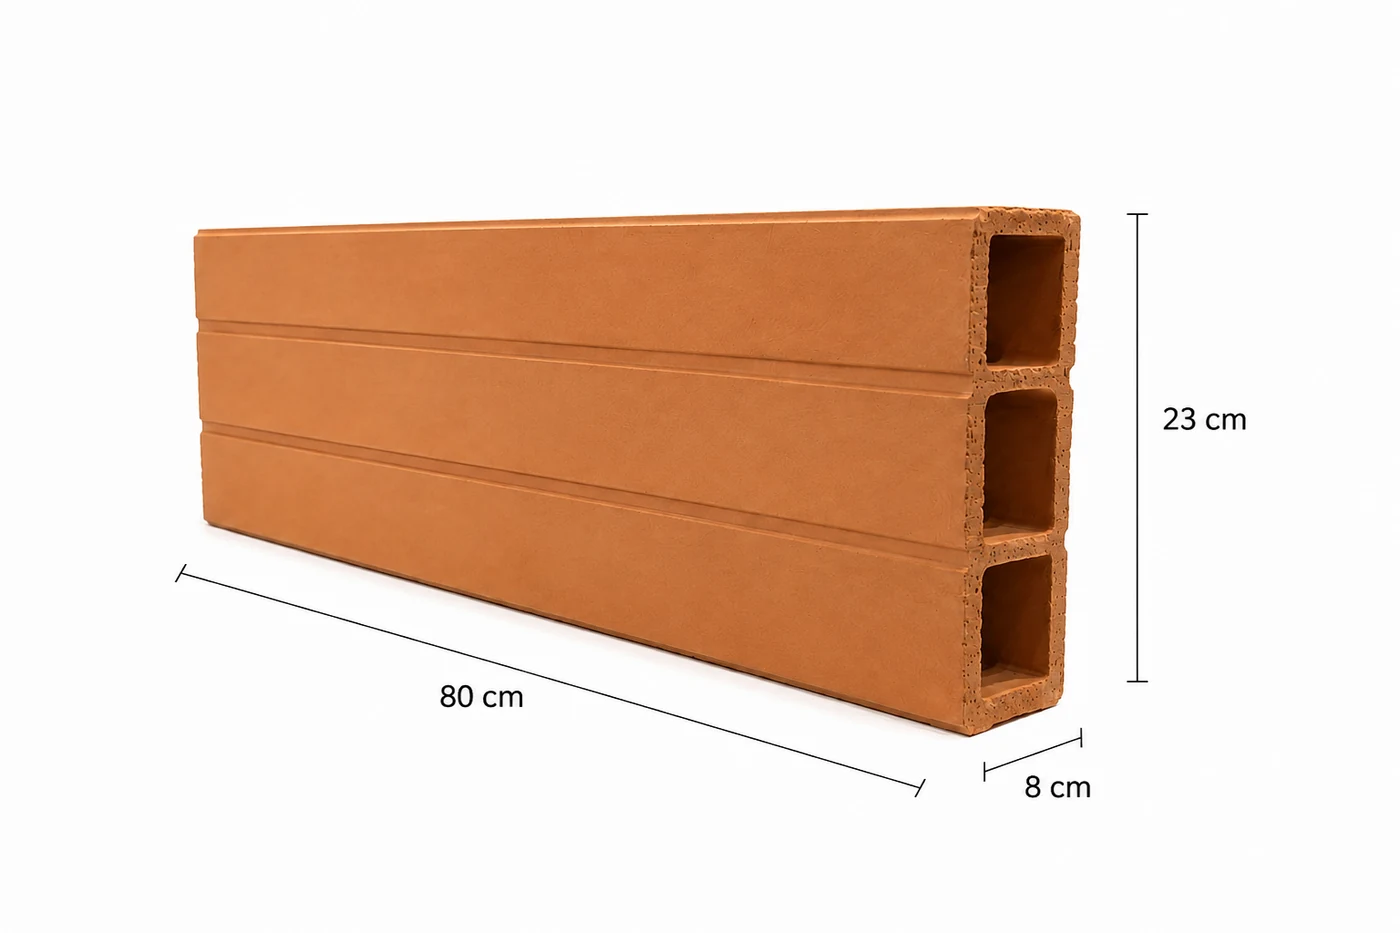
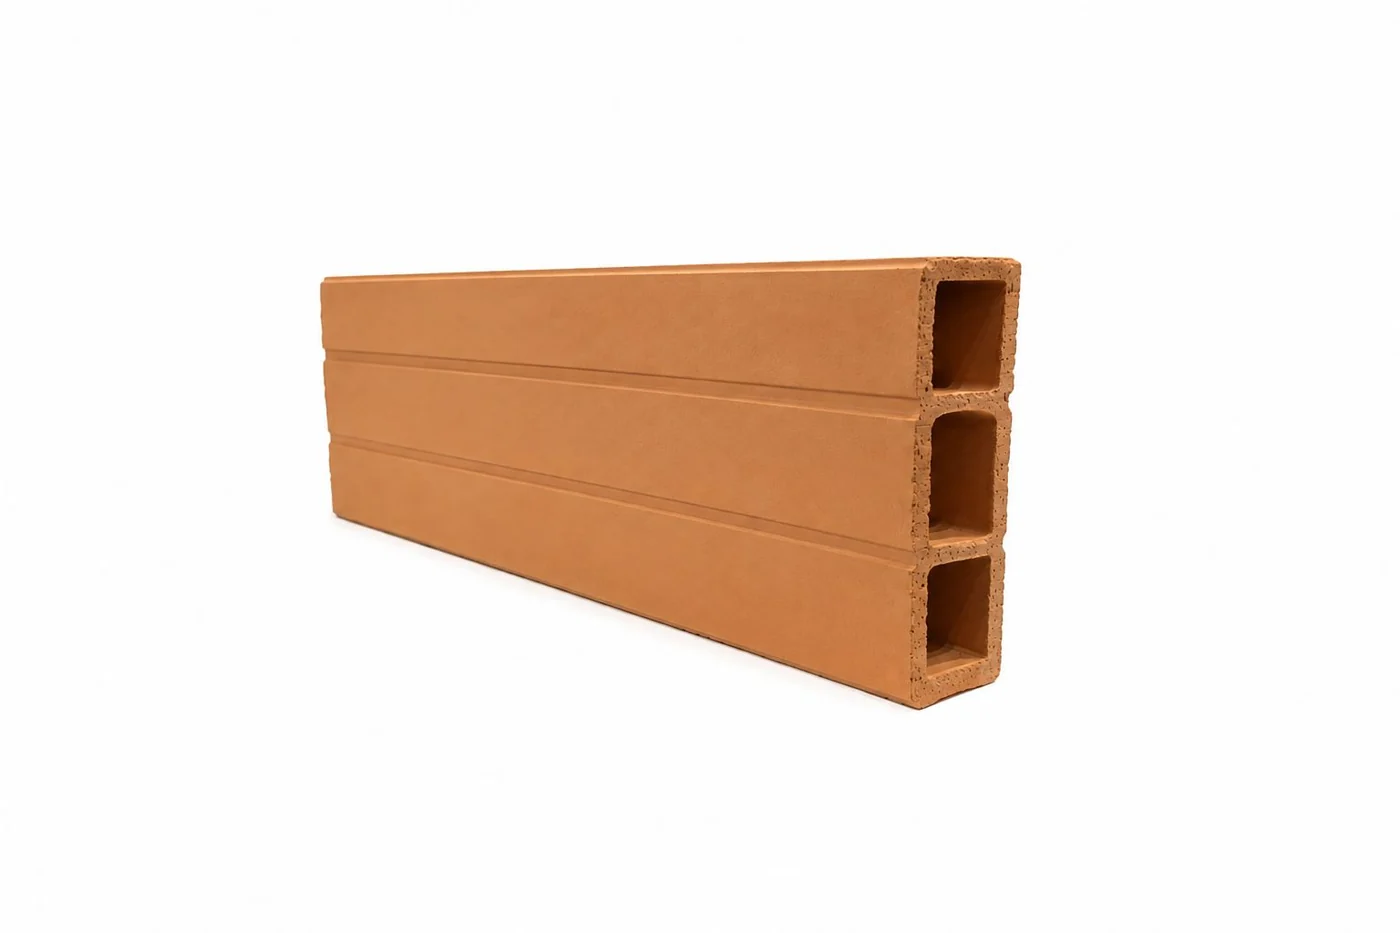
feat(bloquelon): carátula con isométrico limpio + ficha con medidas
- Portada del producto = isométrico sin cotas (bloquelon.webp)
- Imagen con medidas (80/23/8 cm) va a galería y ficha técnica

diff --git a/src/data/products.ts b/src/data/products.ts
@@ -440,6 +440,7 @@ export const products: Product[] = [
     seoDescription:
       "Bloquelón de arcilla cocida 80 × 23 × 8 cm para muros divisorios livianos y rápidos. Rinde 5 unidades por m². Clay House, Amagá, Antioquia.",
     image: productFolderImage("bloquelon", "bloquelon.webp"),
+    imageDimensiones: productFolderImage("bloquelon", "bloquelon-dimensiones.webp"),
     gallery: [
       productFolderImage("bloquelon", "bloquelon-celdas.webp"),
       productFolderImage("bloquelon", "bloquelon-cara.webp"),
